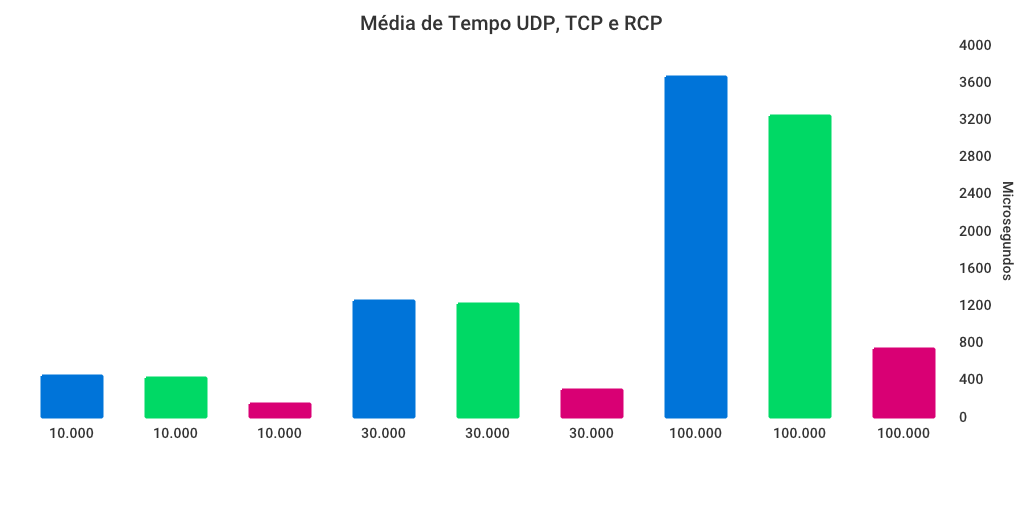
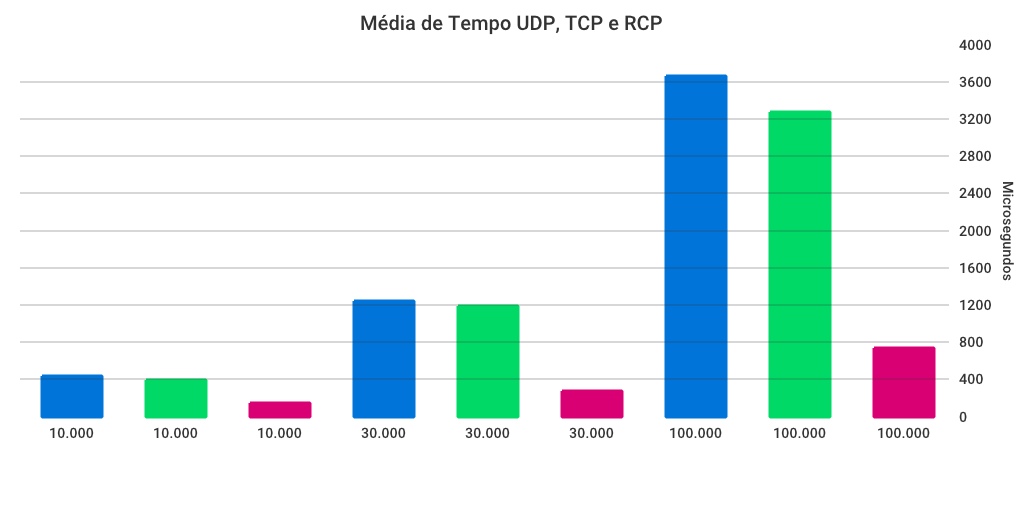
feat: Adição de linhas de grade nos gráficos

diff --git a/exercicio4/graphs/graph.go b/exercicio4/graphs/graph.go
@@ -3,12 +3,15 @@ package graph
 import (
 	"exercicio4/client"
 	"fmt"
-	chart "github.com/wcharczuk/go-chart/v2"
 	"math"
 	"os"
 	"strconv"
 	"strings"
+
+	chart "github.com/wcharczuk/go-chart/v2"
 )
+
+var gridStyle = chart.Style{StrokeWidth: 2, StrokeColor: chart.ColorBlack.WithAlpha(50)}
 
 type TestResult struct {
 	Name    string
@@ -206,6 +209,7 @@ func makeBarChart(tests []TestResult, outputFile string) {
 		YAxis: chart.YAxis{
 			Name:  "Microsegundos",
 			Ticks: yTicks,
+			GridLines:chart.GenerateGridLines(yTicks, gridStyle, gridStyle),
 		},
 
 		Background: chart.Style{
@@ -269,6 +273,7 @@ func makeDiffPercLineGraph(subj1 TestResult, subj2 TestResult, outputFile string
 		YAxis: chart.YAxis{
 			Name:  "Porcentagem",
 			Ticks: yTicks,
+			GridLines:chart.GenerateGridLines(yTicks, gridStyle, gridStyle),
 		},
 		Series: []chart.Series{
 			chart.ContinuousSeries{
@@ -345,6 +350,7 @@ func makeDiffLineGraph(subj1 TestResult, subj2 TestResult, outputFile string) {
 		YAxis: chart.YAxis{
 			Name:  "Microsegundos",
 			Ticks: yTicks,
+			GridLines:chart.GenerateGridLines(yTicks, gridStyle, gridStyle),
 		},
 		Series: []chart.Series{
 			chart.ContinuousSeries{
@@ -463,9 +469,11 @@ func makeGrowthLineGraph(tests []TestResult, outputFile string) {
 		YAxis: chart.YAxis{
 			Name:  "Porcentagem",
 			Ticks: yTicks,
+			GridLines:chart.GenerateGridLines(yTicks, gridStyle, gridStyle),
 		},
-		Series: lineSeries,
+		Series: lineSeries,		
 	}
+
 
 	//cria o arquivo de imagem
 	file := createImageFile(outputFile)
